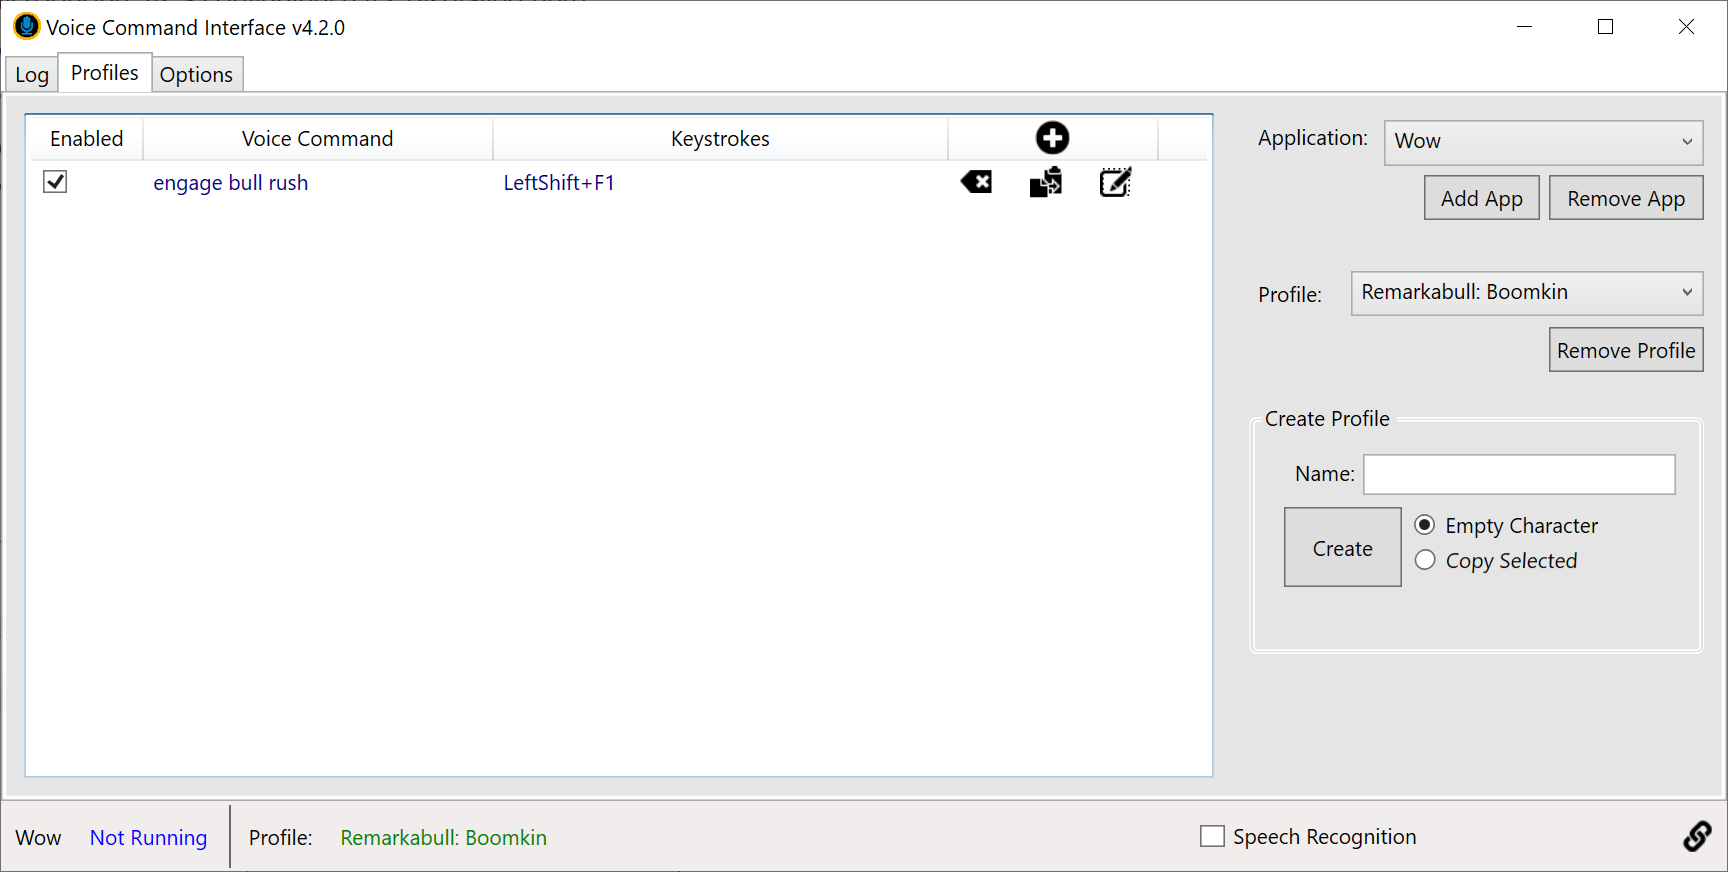
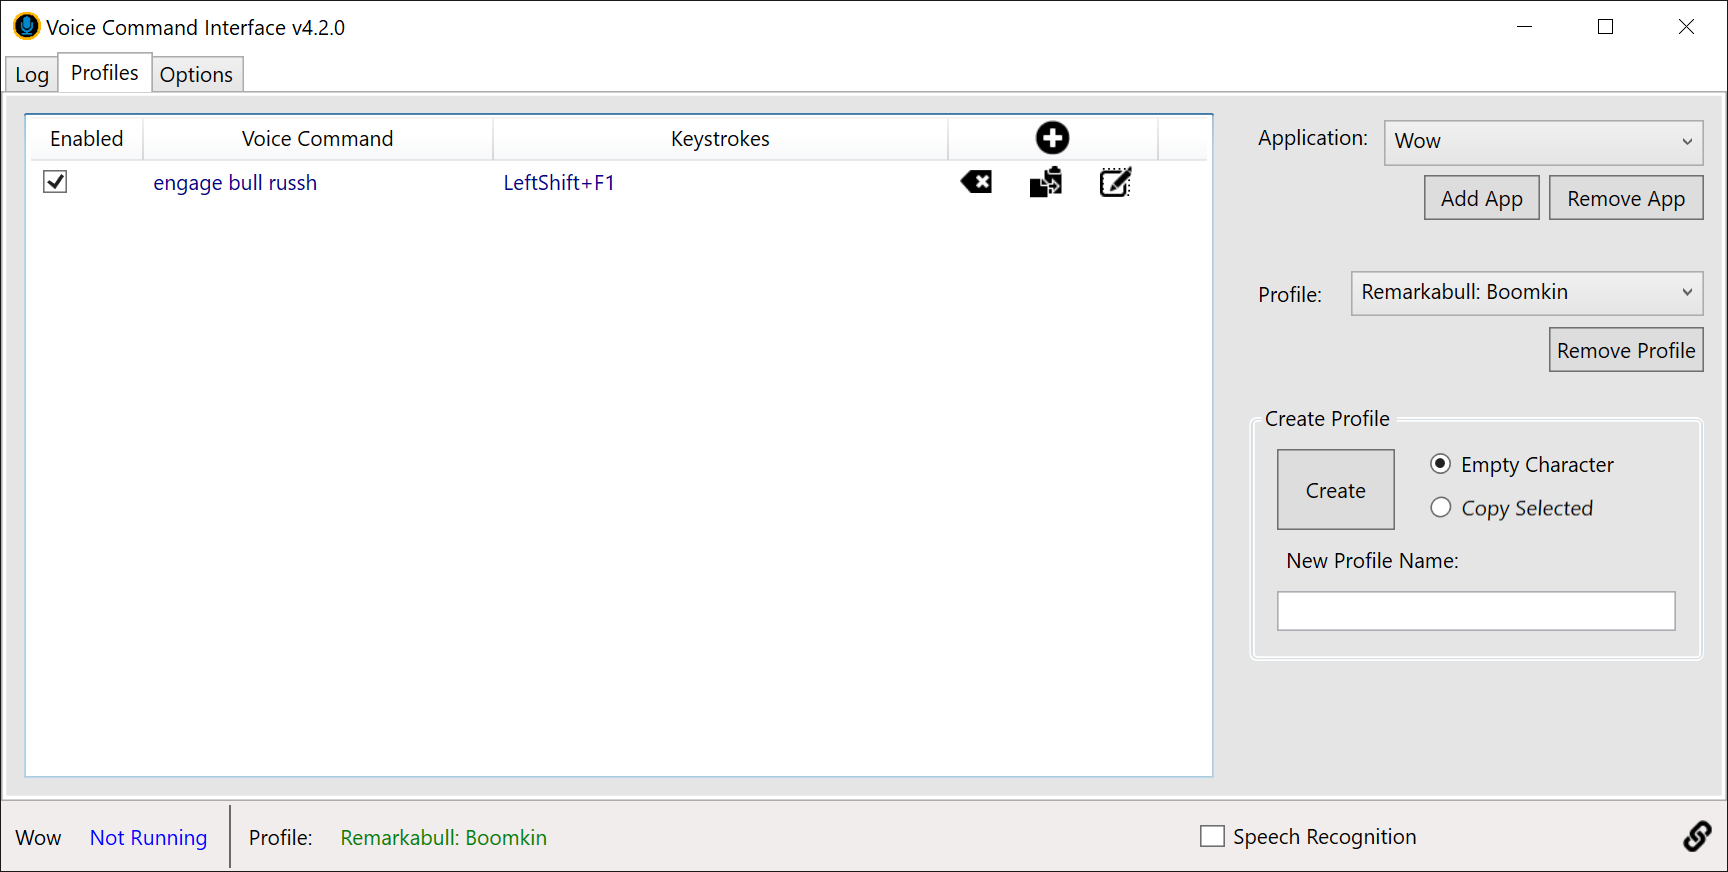
I updated and added a few more tooltips.  I also rearranged the create profile section as well.

Changed region(s): [[0.7188, 0.4954, 0.9688, 0.7741], [0.0, 0.9908, 1.0, 1.0], [0.1562, 0.1858, 0.1875, 0.2167]]

diff --git a/StarTrekNut.VoiceCom.UI/MainWindow.xaml b/StarTrekNut.VoiceCom.UI/MainWindow.xaml
@@ -27,7 +27,7 @@
         </DataTemplate>
         <DataTemplate x:Key="EnableColumnCellTemplate">
             <DockPanel>
-                <CheckBox Foreground="DarkBlue" HorizontalAlignment="Center" Click="EnableVoiceCommandCheckBox_Click">
+                <CheckBox Foreground="DarkBlue" HorizontalAlignment="Center" Click="EnableVoiceCommandCheckBox_Click" ToolTip="Enable/Disable the voice command">
                     <CheckBox.IsChecked>
                         <Binding Path="Enabled" Mode="TwoWay" />
                     </CheckBox.IsChecked>
@@ -103,8 +103,8 @@
                 <ColumnDefinition Width="20*"/>
             </Grid.ColumnDefinitions>
             <StatusBar Grid.Row="1" Grid.Column="0" Width="Auto" FlowDirection="LeftToRight">
-                <Label Name="uiLabelExeName" Content="{Binding Path=SelectedUser.StartupExecutableName}" Width="Auto" Height="Auto"/>
-                <Label Name="uiLabelaExeStatus" Content="Not Running" Foreground="Blue" Width="80" Height="Auto"/>
+                <Label Name="uiLabelExeName" Content="{Binding Path=SelectedUser.StartupExecutableName}" Width="Auto" Height="Auto" ToolTip="The targeted application."/>
+                <Label Name="uiLabelaExeStatus" Content="Not Running" Foreground="Blue" Width="80" Height="Auto" ToolTip="Targeted application status"/>
                 <Separator/>
                 <Label Content="Profile:" Width="Auto" Height="Auto" ToolTip="The currently selected character profile"/>
                 <Label Name="wuiLabelWowStatus" Content="{Binding Path=SelectedProfileSettings.ProfileName, Mode=OneWay}" 
@@ -114,7 +114,7 @@
             <StatusBar Grid.Row="1" Grid.Column="1" FlowDirection="RightToLeft">
                 <CheckBox Name="uiCheckboxSpeechEnaled" Content="Speech Recognition" FlowDirection="LeftToRight" 
                     IsChecked="{Binding Path=SpeechProcessor.IsRecognizerRunning, Mode=TwoWay}" Margin="4,0,0,0"
-                    ToolTip="{Binding Path=HasProfileChanges, Mode=OneWay, Converter={StaticResource IsEnabledConverter}}"/>
+                    ToolTip="Enable speech recognition"/>
             </StatusBar>
             <StatusBar Grid.Row="1" Grid.Column="2" FlowDirection="RightToLeft">
                 <Button Name="uiButtonHelp" ToolTip="Click to open the web page for this application."
@@ -200,8 +200,8 @@
                                   ItemsSource="{Binding Path=SelectedUser.ExecutableList, Mode=OneWay}"
                                   SelectedItem="{Binding Path=SelectedExecutable, Mode=TwoWay}"
                                   DropDownClosed="UiComboBoxApplication_SelectionChanged" />
-                        <Button Grid.Column="1" IsEnabled="True" x:Name="uiButtonAddApplication" Content="Add App" Height="26" Margin="0,45,104,0" VerticalAlignment="Top" HorizontalAlignment="Right" Width="66" Click="uiButtonAddExe_Click"/>
-                        <Button Grid.Column="1" IsEnabled="True" x:Name="uiButtonRemoveApplication" Content="Remove App" Height="26" Margin="0,45,10,0" VerticalAlignment="Top" HorizontalAlignment="Right" Width="89" Click="uiButtonRemoveApplication_Click"/>
+                        <Button Grid.Column="1" IsEnabled="True" x:Name="uiButtonAddApplication" ToolTip="Add a new application" Content="Add App" Height="26" Margin="0,45,104,0" VerticalAlignment="Top" HorizontalAlignment="Right" Width="66" Click="uiButtonAddExe_Click"/>
+                        <Button Grid.Column="1" IsEnabled="True" x:Name="uiButtonRemoveApplication" ToolTip="Remove the selected application" Content="Remove App" Height="26" Margin="0,45,10,0" VerticalAlignment="Top" HorizontalAlignment="Right" Width="89" Click="uiButtonRemoveApplication_Click"/>
 
                         <ComboBox x:Name="uiComboBoxSelectedCharacter" IsEnabled="{Binding Path=SelectedExecutable, Mode=OneWay, Converter={StaticResource ObjectNullToBoolConverter}}"
                                   ItemsSource="{Binding Path=SelectedExecutable.ProfileSettingsList}" 
@@ -212,11 +212,11 @@
                         <Label x:Name="label1" Content="Profile:" Grid.Column="1" HorizontalAlignment="Left" Margin="10,100,0,0" VerticalAlignment="Top" Width="53"/>
 
                         <GroupBox x:Name="uiGroupBoxCreateProfile" IsEnabled="{Binding Path=SelectedExecutable, Mode=OneWay, Converter={StaticResource ObjectNullToBoolConverter}}" 
-                                  Grid.Column="1" Header="Create Profile" Height="144" Margin="10,175,10,0" VerticalAlignment="Top">
+                                  Grid.Column="1" Header="Create Profile" Height="148" Margin="10,175,10,0" VerticalAlignment="Top">
                             <Grid>
-                                <Button x:Name="uiButtonAddCharacter" Content="Create" Click="uiButtonAddCharacter_Click" HorizontalAlignment="Left" Margin="14,43,0,0" VerticalAlignment="Top" Width="67" Height="46"/>
-                                <RadioButton x:Name="uiRadioButtonNew" GroupName="Character" Content="Empty Character" IsChecked="True" HorizontalAlignment="Left" Margin="87,46,0,0" VerticalAlignment="Top" Width="134"/>
-                                <RadioButton x:Name="uiRadioButtonCopy" GroupName="Character" Content="Copy Selected" HorizontalAlignment="Left" Margin="87,66,0,0" VerticalAlignment="Top" RenderTransformOrigin="0.5,0.5">
+                                <Button x:Name="uiButtonAddCharacter" Content="Create" Click="uiButtonAddCharacter_Click" HorizontalAlignment="Left" Margin="10,10,0,0" VerticalAlignment="Top" Width="67" Height="46" ToolTip="Create a new application profile"/>
+                                <RadioButton x:Name="uiRadioButtonNew" ToolTip="Create an empty profile" GroupName="Character" Content="Empty Character" IsChecked="True" HorizontalAlignment="Left" Margin="96,11,0,0" VerticalAlignment="Top" Width="134"/>
+                                <RadioButton x:Name="uiRadioButtonCopy" ToolTip="Create a copy of the currently selected profile" GroupName="Character" Content="Copy Selected" HorizontalAlignment="Left" Margin="96,36,0,0" VerticalAlignment="Top" RenderTransformOrigin="0.5,0.5">
                                     <RadioButton.RenderTransform>
                                         <TransformGroup>
                                             <ScaleTransform/>
@@ -226,11 +226,11 @@
                                         </TransformGroup>
                                     </RadioButton.RenderTransform>
                                 </RadioButton>
-                                <Label x:Name="label2" Content="Name:" HorizontalAlignment="Left" Margin="15,10,0,0" VerticalAlignment="Top"/>
-                                <TextBox x:Name="uiTextBoxNewCharacterName" Height="23" Margin="59,13,0,0" TextWrapping="Wrap" VerticalAlignment="Top" HorizontalAlignment="Left" Width="179"/>
+                                <Label ToolTip="The name used when you create a new application profiles" x:Name="label2" Content="New Profile Name:" HorizontalAlignment="Left" Margin="10,60,0,0" VerticalAlignment="Top"/>
+                                <TextBox ToolTip="The name used when you create a new application profiles" x:Name="uiTextBoxNewCharacterName" Height="23" Margin="10,91,10,0" TextWrapping="Wrap" VerticalAlignment="Top"/>
                             </Grid>
                         </GroupBox>
-                        <Button x:Name="uiButtonRemoveSelectedChar" IsEnabled="{Binding Path=SelectedProfileSettings, Mode=OneWay, Converter={StaticResource ObjectNullToBoolConverter}}" 
+                        <Button x:Name="uiButtonRemoveSelectedChar" ToolTip="Remove the selected application profile" IsEnabled="{Binding Path=SelectedProfileSettings, Mode=OneWay, Converter={StaticResource ObjectNullToBoolConverter}}" 
                                 Click="uiButtonRemoveSelectedChar_Click" Content="Remove Profile" Grid.Column="1" Margin="0,132,10,0" VerticalAlignment="Top" HorizontalAlignment="Right" Width="89" Height="26"/>
                         <ListView Name="uiListViewVoiceCommands" IsEnabled="{Binding Path=SelectedProfileSettings, Mode=OneWay, Converter={StaticResource ObjectNullToBoolConverter}}"
                                   Margin="10"
@@ -269,7 +269,8 @@
                                 <ComboBox x:Name="uiComboBoxRecognitionEngines" 
                                     ItemsSource="{Binding SpeechProcessor.RecogEngines, Converter={StaticResource RecogConverter}, Mode=OneWay}"
                                     SelectedItem="{Binding SpeechProcessor.SelectedRecognizer, Converter={StaticResource RecogConverter}, Mode=TwoWay}" SelectionChanged="uiComboBoxRecognitionEngines_SelectionChanged" 
-                                    Margin="10,27,9.714,0" VerticalAlignment="Top" Height="22"/>
+                                    Margin="10,27,9.714,0" VerticalAlignment="Top" Height="22"
+                                          ToolTip="The currently selected voice recognition engine"/>
 
                                 <GroupBox Header="Pause Keys" Margin="10,54,10,0" Height="112" VerticalAlignment="Top">
                                     <Grid>
@@ -296,17 +297,18 @@
                                         <CheckBox x:Name="uiCheckboxEnableCommandAcknowledgement" Content="Enable" Height="Auto" VerticalAlignment="Top" HorizontalAlignment="Left" 
                                                   Width="Auto" Margin="10,10,0,0" IsChecked="{Binding SelectedUser.StartupTtsSettings.EnableTtsCommandAck, Mode=TwoWay}"
                                     ToolTip="This enables an audible acknowledgement for each recognized voice command to this application." />
-                                        <Button x:Name="uiButTestTts" Margin="0,10,10,0" Height="Auto" VerticalAlignment="Top" HorizontalAlignment="Right" Width="58" Click="uiButTestTts_Click" Content="Test"/>
+                                        <Button ToolTip="Test the currently selected acknowledgement settings" x:Name="uiButTestTts" Margin="0,10,10,0" Height="Auto" VerticalAlignment="Top" HorizontalAlignment="Right" Width="58" Click="uiButTestTts_Click" Content="Test"/>
                                         <Label Content="Operating System Voice:" HorizontalAlignment="Left" Margin="10,39,0,0" VerticalAlignment="Top" Width="142"
                                     ToolTip="Select the installed operating system voice for command acknowledgement." />
                                         <ComboBox x:Name="uiComboBoxTtsVoices"
                                     ItemsSource="{Binding SpeechProcessor.TtsVoices, Converter={StaticResource TtsVoiceConverter}, Mode=OneWay}"
                                     SelectedItem="{Binding SelectedUser.StartupTtsSettings.SelectedVoice, Converter={StaticResource TtsVoiceConverter}, Mode=OneWay}" Margin="10,70,10,0" VerticalAlignment="Top"
-                                    SelectionChanged="uiComboBoxTtsVoices_SelectionChanged"/>
+                                    SelectionChanged="uiComboBoxTtsVoices_SelectionChanged" ToolTip="The current selected operating system voice"/>
 
                                         <Label Content="Volume:" HorizontalAlignment="Left" Margin="15,106,0,0" VerticalAlignment="Top" Height="26"/>
-                                        <Slider x:Name="uiSliderTtsVolume" Margin="10,132,10,0" VerticalAlignment="Top" Value="{Binding SelectedUser.StartupTtsSettings.SelectedVolume, Mode=TwoWay}" Minimum="0" Maximum="100" 
-                                    SmallChange="1" LargeChange="10" TickPlacement="Both" TickFrequency="10" ValueChanged="uiSliderTtsVolume_ValueChanged" />
+                                        <Slider x:Name="uiSliderTtsVolume" Margin="10,132,10,0" VerticalAlignment="Top" Value="{Binding SelectedUser.StartupTtsSettings.SelectedVolume, Mode=TwoWay}" Minimum="0" Maximum="100"
+                                            ToolTip="Volume setting for voice command acknowledgement"
+                                            SmallChange="1" LargeChange="10" TickPlacement="Both" TickFrequency="10" ValueChanged="uiSliderTtsVolume_ValueChanged" />
                                         <TextBlock Margin="73,111,0,0" TextWrapping="Wrap" Text="{Binding SelectedUser.StartupTtsSettings.SelectedVolume, Mode=OneWay}" VerticalAlignment="Top" RenderTransformOrigin="1.615,0.564" HorizontalAlignment="Left" Width="35"/>
 
                                     </Grid>
@@ -317,7 +319,7 @@
 
                         <GroupBox Grid.Column="1" Header="Misc Settings" Margin="10,0,0,10">
                             <Grid>
-                                <GroupBox Header="Microphone" Margin="10,1,10,0" Height="52" VerticalAlignment="Top">
+                                <GroupBox Header="Microphone" Margin="10,1,10,0" Height="52" VerticalAlignment="Top" ToolTip="The operating system default mmicrophone used for voice command recognition">
                                     <Grid>
                                         <Grid.ColumnDefinitions>
                                             <ColumnDefinition Width="6*"/>
@@ -332,7 +334,7 @@
                                         <Label Content="Delay (milliseconds):" HorizontalAlignment="Left" Margin="10,10,0,0" VerticalAlignment="Top" Height="26"/>
                                         <TextBlock Margin="128,15,24.714,0" TextWrapping="Wrap" Text="{Binding Path=SelectedUser.SelectedKeystrokeDelayInMilliSeconds, Mode=OneWay}" VerticalAlignment="Top" RenderTransformOrigin="-0.257,2.143"/>
                                         <Slider x:Name="uiSliderKeyStrokeDelay" Margin="10,41,9.714,0" VerticalAlignment="Top" Value="{Binding SelectedUser.SelectedKeystrokeDelayInMilliSeconds, Mode=TwoWay}" Minimum="100" Maximum="2000" 
-                                            SmallChange="1" LargeChange="50" TickPlacement="Both" TickFrequency="50" ValueChanged="uiSliderTtsVolume_ValueChanged" />
+                                            SmallChange="1" LargeChange="50" TickPlacement="Both" TickFrequency="50" ValueChanged="uiSliderTtsVolume_ValueChanged" ToolTip="Delay between sending subsequent key strokes to the target application." />
                                     </Grid>
                                 </GroupBox>
                                 <GroupBox Header="Import / Export Application Settings" Margin="11,162,9.714,0" Height="70" VerticalAlignment="Top">

diff --git a/StarTrekNut.VoiceCom.UI/Classes/IsEnabledConverter.cs b/StarTrekNut.VoiceCom.UI/Classes/IsEnabledConverter.cs
@@ -10,7 +10,7 @@ namespace StarTrekNut.VoiceCom.UI.Classes
 
         public object Convert(object value, Type targetType, object parameter, CultureInfo culture)
         {
-            return value != null && !(bool)value ? "Disable the speech recognition engine" : "You must save settings before enabling speech recognition";
+            return value != null && !(bool)value ? "Disable speech recognition" : "Enable speech recognition";
         }
 
         public object ConvertBack(object value, Type targetType, object parameter, CultureInfo culture)
